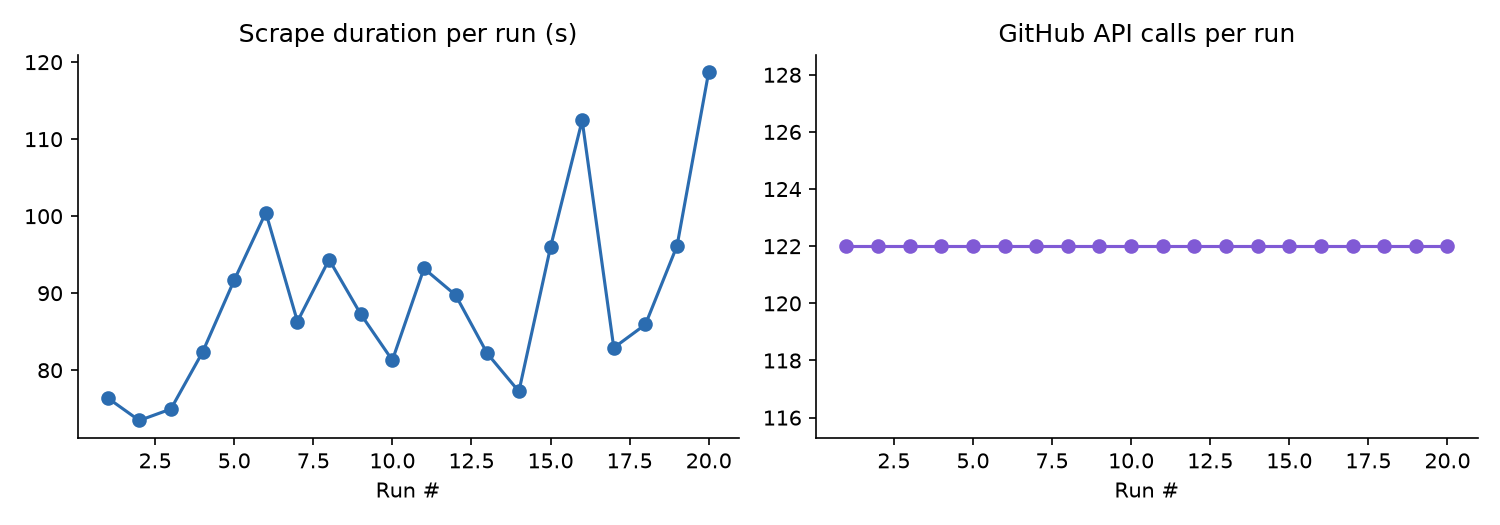
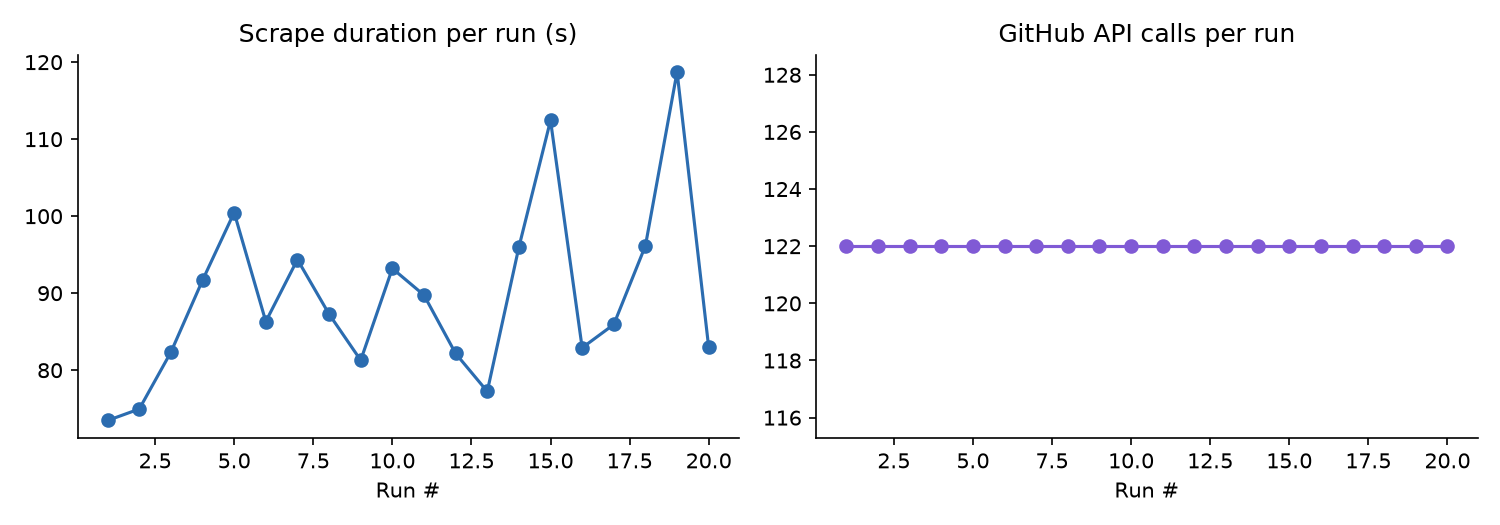
Weekly issue tracker refresh

Changed region(s): [[0.092, 0.1219, 0.4907, 0.7619], [0.0613, 0.7314, 0.1227, 0.8229], [0.46, 0.64, 0.4907, 0.6705]]

diff --git a/README.md b/README.md
@@ -81,7 +81,7 @@ See [CONTRIBUTING.md](CONTRIBUTING.md) for the full contributor workflow — inc
 
 <!-- TRACKER:START -->
 
-_Last updated: 2026-11-13 22:03 UTC_
+_Last updated: 2026-11-14 02:13 UTC_
 
 _Tracking **18** upstream repos, **376** relevant open issues._
 
@@ -176,7 +176,7 @@ _Tracking **18** upstream repos, **376** relevant open issues._
 
 | Score | Issue | Labels | Comments | Updated |
 |---|---|---|---|---|
-| ★★☆☆☆ | [#414](https://github.com/grafana/google-bigquery-datasource/issues/414) Dependency Dashboard | — | 0 | 2026-11-13 |
+| ★★☆☆☆ | [#414](https://github.com/grafana/google-bigquery-datasource/issues/414) Dependency Dashboard | — | 0 | 2026-11-14 |
 | ★★☆☆☆ | [#578](https://github.com/grafana/google-bigquery-datasource/issues/578) Feature request: label BigQuery jobs with the Grafana user | — | 0 | 2026-10-07 |
 | ★★☆☆☆ | [#575](https://github.com/grafana/google-bigquery-datasource/issues/575) [bigquery] Re-enable e2e health check test on cloud | — | 0 | 2026-10-02 |
 | ★★☆☆☆ | [#552](https://github.com/grafana/google-bigquery-datasource/issues/552) Incorrect interpolation of single quote for multi-value variable | — | 0 | 2026-08-04 |
@@ -208,14 +208,14 @@ _Tracking **18** upstream repos, **376** relevant open issues._
 
 | Score | Issue | Labels | Comments | Updated |
 |---|---|---|---|---|
+| ★★☆☆☆ | [#17522](https://github.com/langfuse/langfuse/issues/17522) Batch action job ID can silently deduplicate a distinct later operation with a different query or target | bug, stale | 3 | 2026-11-14 |
+| ★☆☆☆☆ | [#16640](https://github.com/langfuse/langfuse/issues/16640) User-scoped API tokens for cross-project data access (MCP / agents) | feat-auth, feat-api, feat-rbac, feat-api-auth, stale, feature, feat-mcp, feat-org-api | 6 | 2026-11-14 |
+| ★☆☆☆☆ | [#16868](https://github.com/langfuse/langfuse/issues/16868) feat(web): persist environment-filter selection in the URL | feat-dashboard, feat-tracing-environments, feature | 4 | 2026-11-14 |
 | ★☆☆☆☆ | [#1214](https://github.com/langfuse/langfuse/issues/1214) feat(langchain): extract value as string form prompttemplates | prio-low, sdk-python, sdk-js, integration-langchain, stale | 3 | 2026-11-13 |
 | ★☆☆☆☆ | [#1437](https://github.com/langfuse/langfuse/issues/1437) bug: cost count issue with GPT-4-vision or claude-3-opus when there is base64 image | 🐞❔ unconfirmed bug, stale | 10 | 2026-11-13 |
 | ★☆☆☆☆ | [#1413](https://github.com/langfuse/langfuse/issues/1413) Support for Nemo Guardrails | stale | 4 | 2026-11-13 |
 | ★☆☆☆☆ | [#1198](https://github.com/langfuse/langfuse/issues/1198) feat(ui): allow filtering for null values (trace.name) | ui, stale | 2 | 2026-11-13 |
 | ★☆☆☆☆ | [#906](https://github.com/langfuse/langfuse/issues/906) feat(python-sdk): Introduce custom error types instead of bare exception | prio-low, prio-medium, sdk-python, stale | 4 | 2026-11-13 |
-| ★☆☆☆☆ | [#714](https://github.com/langfuse/langfuse/issues/714) feat: Alerts on User Consumption | stale | 3 | 2026-11-13 |
-| ★☆☆☆☆ | [#630](https://github.com/langfuse/langfuse/issues/630) feat: Monitor Vector DB | — | 4 | 2026-11-13 |
-| ★☆☆☆☆ | [#502](https://github.com/langfuse/langfuse/issues/502) feat: full support of google vertex models, #characters and costs | prio-medium | 1 | 2026-11-13 |
 
 ### [nightscout/cgm-remote-monitor](https://github.com/nightscout/cgm-remote-monitor)
 
@@ -304,7 +304,7 @@ _Tracking **18** upstream repos, **376** relevant open issues._
 
 <!-- METRICS:START -->
 
-_Last run: 2026-11-13 22:01 UTC, took **118.7s**, **122** GitHub API calls, **4878/5000** rate limit remaining._
+_Last run: 2026-11-14 02:12 UTC, took **83.0s**, **122** GitHub API calls, **4878/5000** rate limit remaining._
 
 ![Scrape metrics trend](assets/metrics_trend.png)
 
